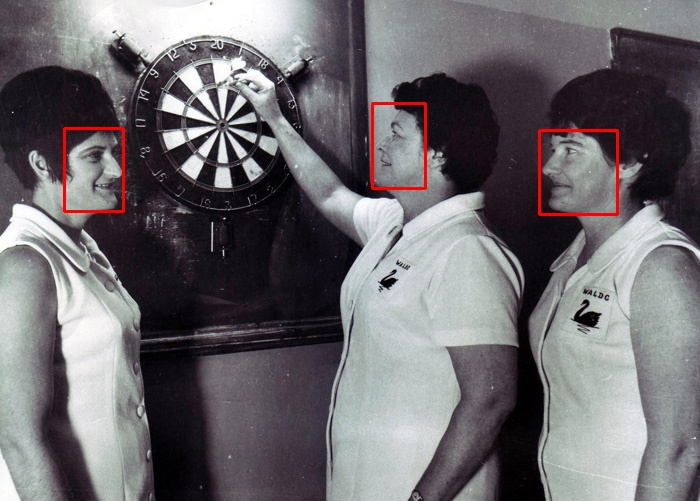
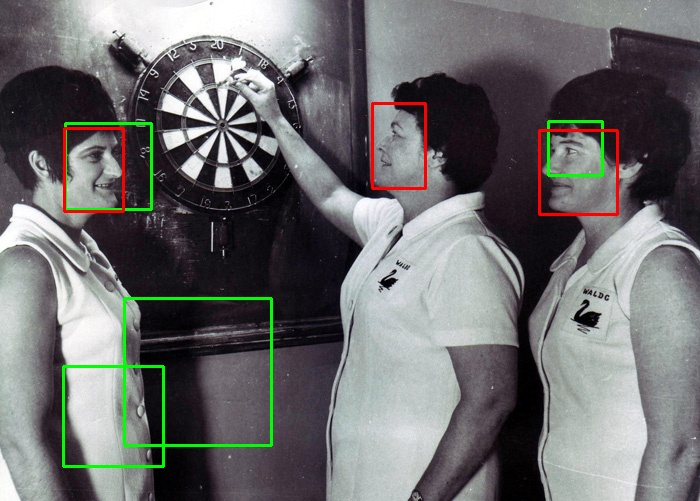
fixed detectMultiScale parameters

Changed region(s): [[0.09, 0.5689, 0.39, 0.9581], [0.09, 0.2395, 0.24, 0.4491], [0.78, 0.2395, 0.87, 0.3593]]

diff --git a/face.py b/face.py
@@ -20,26 +20,28 @@ face_cascade = cv.CascadeClassifier('frontalface.xml')
 
 
 #detects image and returns array called 'faces' with subarrays containg x, y, width and height of all boxes around detected faces.
-def detect(image):
-
-    img = cv.imread(image)
+def detect(path, image):
+    print(image)
+    img = cv.imread(path)
     gray = cv.cvtColor(img, cv.COLOR_BGR2GRAY)
     gray = cv.equalizeHist(gray)
-    faces = np.asarray(face_cascade.detectMultiScale(gray, 1.3, 5))
+    faces = np.asarray(face_cascade.detectMultiScale(image=gray, scaleFactor=1.1, minNeighbors=1, minSize=(50, 50), maxSize=(500,500)))
 
 # highlights regions of interest and draws them onto the image.
     for (x,y,w,h) in faces:
         img = cv.rectangle(img,(x,y),(x+w,y+h),(0,255,0),2)
         roi_gray = gray[y:y+h, x:x+w]
         roi_color = img[y:y+h, x:x+w]
-    for(x,y,w,h) in groundTruths[args.image]:
+    for(x,y,w,h) in groundTruths[image]:
         img = cv.rectangle(img,(x,y),(x+w,y+h),(0,0,255),2)
         roi_gray = gray[y:y+h, x:x+w]
         roi_color = img[y:y+h, x:x+w]
     faces_count = faces.shape[0]
 #displays the image with roi
-    print(eval(groundTruths[args.image], faces))
+    print(eval(groundTruths[image], faces))
     cv.imwrite('detected.jpg',img)
 
 
-detect('images/positives/'+args.image)
+images=('dart4.jpg','dart5.jpg','dart13.jpg','dart14.jpg','dart15.jpg')
+for i in images:
+    detect('images/positives/'+i, i)

diff --git a/eval.py b/eval.py
@@ -34,6 +34,7 @@ def eval(targets, predicts):
 				FN +=1
 		detections, FP = conflictResolver(detections)
 		TP = np.sum(detections)
+		print(detections)
 
 
 	# calculates precision, recall and F1 score
@@ -114,7 +115,7 @@ def precision(TP, FP):
 	# If both 0, this is equal to 100% precision
 	if(TP == 0 and FP == 0):
 		return 1
-
+	print(TP, FP)
 	return TP / (TP+FP)
 
 # Calculates F1 Score based on precision and recall
